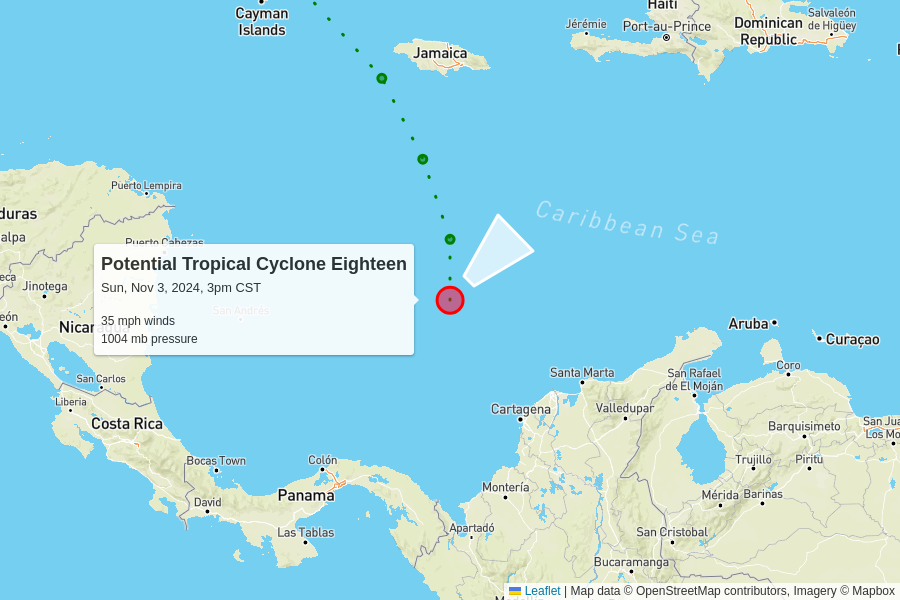
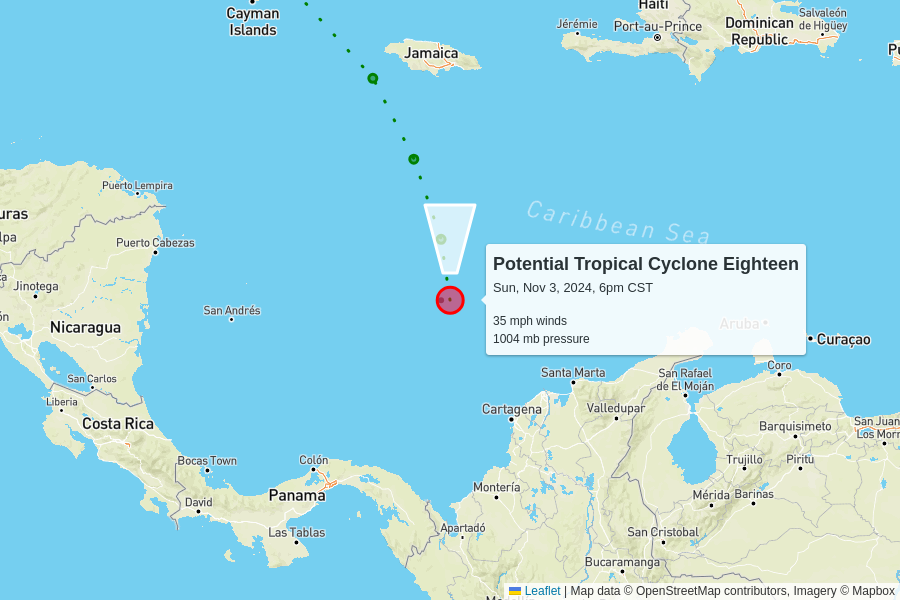
automatic update

diff --git a/docs/index.html b/docs/index.html
@@ -103,6 +103,50 @@
       <tr>
         <td colspan="6" class="storm category-0" >
           <h2>
+            Potential Tropical Cyclone Eighteen
+            <p class="updated">last updated <span data-time>2024-11-04T00:00:00.000Z</span></p>
+          </h2>
+        </td>
+      </tr>
+      
+      <tr>
+        <th class="spacer"></th>
+        <th>wind speed</th>
+        <th>central pressure</th>
+        <th>movement</th>
+        <th>data (CSV)</th>
+        <th>National Hurricane Center</th>
+      </tr>
+      <tr>
+        <td class="spacer"></td>
+        <td>35 mph<br>0 mph since last update</td>
+        <td>1004 mb<br>0 mb since last update</td>
+        <td>
+          7 mph to the north
+          <br/>
+          <span style="display: inline-block; font-size: 1.5em; transform: rotate(360deg);">↑</span>
+        </td>
+        <td><a href="https://raw.githubusercontent.com/mgwalker/atlantic-hurricanes/main/data/csv/AL182024.csv">AL182024.csv</a></td>
+        <td><a href="https://www.nhc.noaa.gov/archive/2024/EIGHTEEN.shtml?">NHC advisories</a></td>
+      </tr>
+      <tr id="storm_AL182024" >
+        <td class="spacer">
+        <td colspan="5">
+          <figure>
+            <img src="AL182024.png">
+            <figcaption>
+              Map data &copy; <a href="https://www.openstreetmap.org/copyright">OpenStreetMap</a> contributors,
+              Imagery &copy; <a href="https://www.mapbox.com/">Mapbox</a> |
+              <a href="https://www.mapbox.com/map-feedback/" target="_blank">Improve this map</a>
+            </figcaption>
+          </figure>
+        </td>
+      </tr>
+      
+
+      <tr>
+        <td colspan="6" class="storm category-0" >
+          <h2>
             Tropical Storm Patty
             <p class="updated">last updated <span data-time>2024-11-03T21:00:00.000Z</span></p>
           </h2>
@@ -134,50 +178,6 @@
         <td colspan="5">
           <figure>
             <img src="AL172024.png">
-            <figcaption>
-              Map data &copy; <a href="https://www.openstreetmap.org/copyright">OpenStreetMap</a> contributors,
-              Imagery &copy; <a href="https://www.mapbox.com/">Mapbox</a> |
-              <a href="https://www.mapbox.com/map-feedback/" target="_blank">Improve this map</a>
-            </figcaption>
-          </figure>
-        </td>
-      </tr>
-      
-
-      <tr>
-        <td colspan="6" class="storm category-0" >
-          <h2>
-            Potential Tropical Cyclone Eighteen
-            <p class="updated">last updated <span data-time>2024-11-03T21:00:00.000Z</span></p>
-          </h2>
-        </td>
-      </tr>
-      
-      <tr>
-        <th class="spacer"></th>
-        <th>wind speed</th>
-        <th>central pressure</th>
-        <th>movement</th>
-        <th>data (CSV)</th>
-        <th>National Hurricane Center</th>
-      </tr>
-      <tr>
-        <td class="spacer"></td>
-        <td>35 mph</td>
-        <td>1004 mb</td>
-        <td>
-          7 mph to the northeast
-          <br/>
-          <span style="display: inline-block; font-size: 1.5em; transform: rotate(45deg);">↑</span>
-        </td>
-        <td><a href="https://raw.githubusercontent.com/mgwalker/atlantic-hurricanes/main/data/csv/AL182024.csv">AL182024.csv</a></td>
-        <td><a href="https://www.nhc.noaa.gov/archive/2024/EIGHTEEN.shtml?">NHC advisories</a></td>
-      </tr>
-      <tr id="storm_AL182024" >
-        <td class="spacer">
-        <td colspan="5">
-          <figure>
-            <img src="AL182024.png">
             <figcaption>
               Map data &copy; <a href="https://www.openstreetmap.org/copyright">OpenStreetMap</a> contributors,
               Imagery &copy; <a href="https://www.mapbox.com/">Mapbox</a> |
